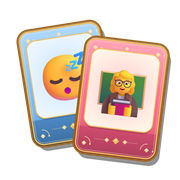
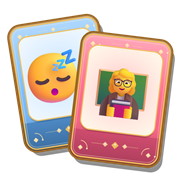
v9.41 图标再放大

diff --git a/web/public/index.html b/web/public/index.html
@@ -4,8 +4,8 @@
     <meta charset="UTF-8">
     <meta name="viewport" content="width=device-width, initial-scale=1.0, user-scalable=no, viewport-fit=cover, maximum-scale=1.0, minimum-scale=1.0">
     <title>初13班卡牌对决</title>
-    <link rel="icon" type="image/png" sizes="64x64" href="./favicon.png?v=2">
-    <link rel="apple-touch-icon" sizes="180x180" href="./apple-touch-icon.png?v=2">
+    <link rel="icon" type="image/png" sizes="64x64" href="./favicon.png?v=3">
+    <link rel="apple-touch-icon" sizes="180x180" href="./apple-touch-icon.png?v=3">
     <link rel="stylesheet" href="./css/style.css">
 </head>
 <body>
@@ -299,7 +299,7 @@
             <button class="btn btn-sm btn-info" id="pcMoreSkinMarket"><span class="uic-slot" data-ic="shopping-bag" data-emoji="🛍">🛍</span> 皮肤市场</button>
             <button class="btn btn-sm btn-success" id="pcMoreManageSkin"><span class="uic-slot" data-ic="toolbox" data-emoji="🧰">🧰</span> 皮肤管理</button>
         </div>
-        <div style="color:#667;font-size:10px;" id="versionLabel">v9.40 · 透明网站图标</div>
+        <div style="color:#667;font-size:10px;" id="versionLabel">v9.41 · 图标再放大</div>
     </div>
     <div class="screen" id="screenSupport">
         <div class="game-title" style="font-size:20px;"><span class="uic-slot" data-ic="message-circle" data-emoji="💬">💬</span> 在线客服</div>
